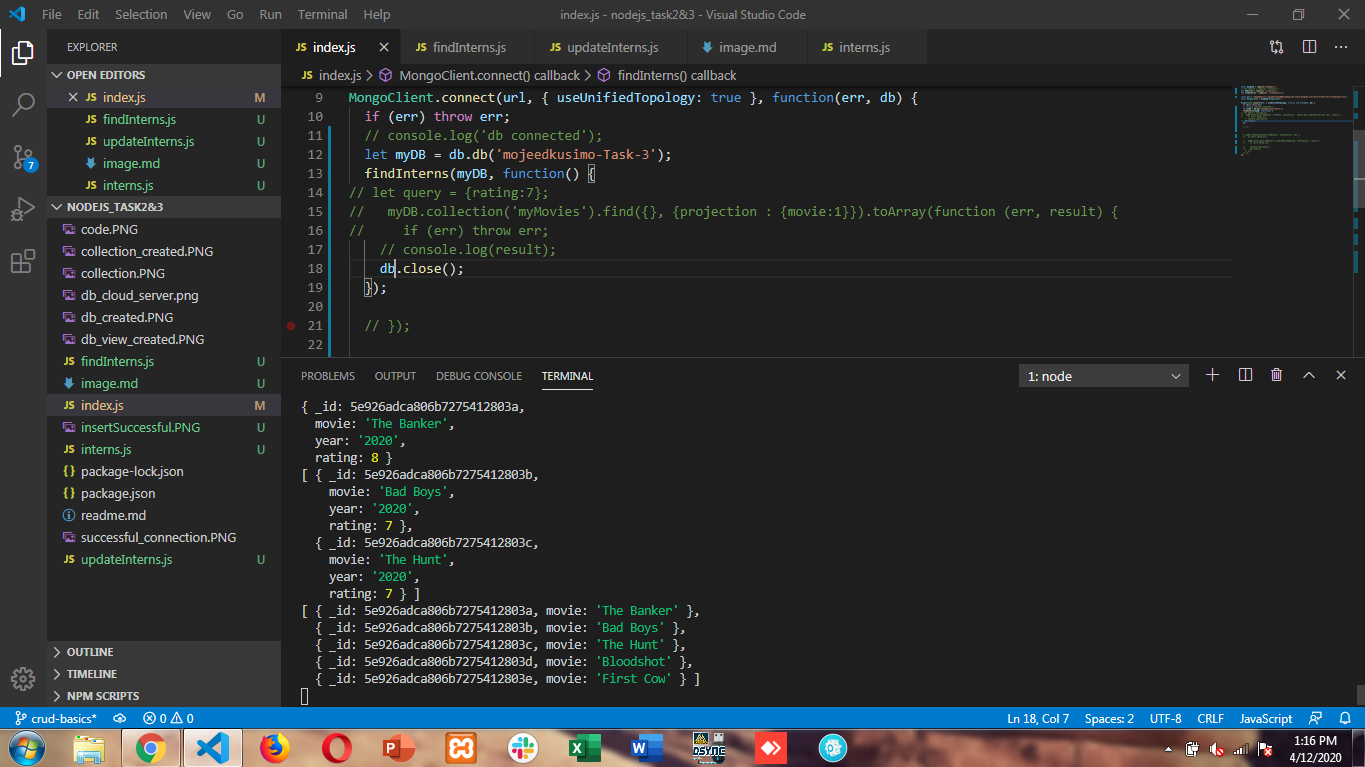
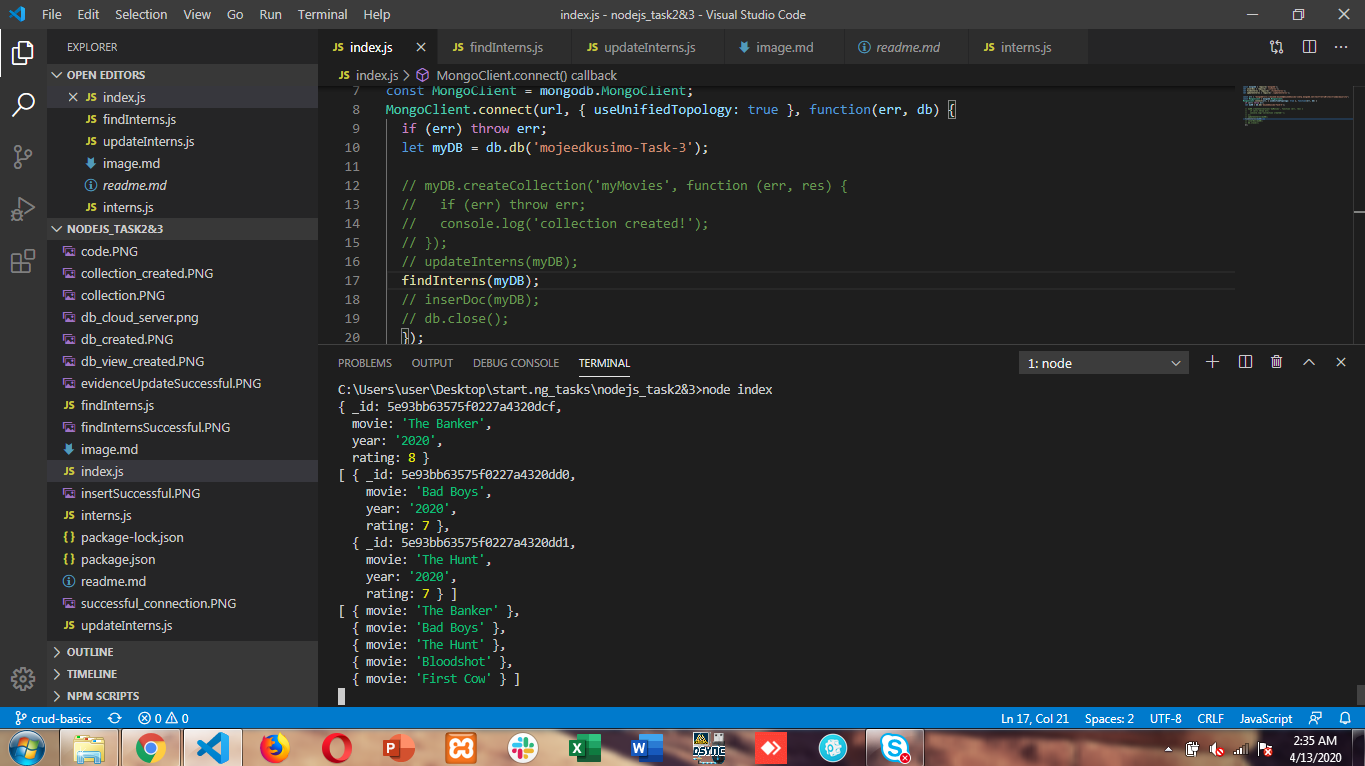
StartNG node task 3 completed

diff --git a/findInterns.js b/findInterns.js
@@ -1,25 +1,25 @@
 let findInterns = function (myDB) {
     let query = {rating : 7};
 
-    // myDB.collection('myMovies').findOne({}, function (err,result) {
-    //     if (err) throw err;
-    //     console.log( result);
-    // });
-
-    myDB.collection('myMovies').find({}).toArray(function (err,result) {
+    myDB.collection('myMovies').findOne({}, function (err,result) {
         if (err) throw err;
-        console.log( result );
+        console.log( result);
     });
 
-    // myDB.collection('myMovies').find(query).toArray(function (err,result) {
+    // myDB.collection('myMovies').find({}).toArray(function (err,result) {
     //     if (err) throw err;
-    //     console.log(result);
+    //     console.log( result );
     // });
 
-    // myDB.collection('myMovies').find({}, {projection: { movie : 1 }}).toArray(function (err,result) {
-    //     if (err) throw err;
-    //     console.log(result);
-    // });
+    myDB.collection('myMovies').find(query).toArray(function (err,result) {
+        if (err) throw err;
+        console.log(result);
+    });
+
+    myDB.collection('myMovies').find({}, {projection: { _id: 0, movie : 1 }}).toArray(function (err,result) {
+        if (err) throw err;
+        console.log(result);
+    });
 }
 
 module.exports = findInterns;
